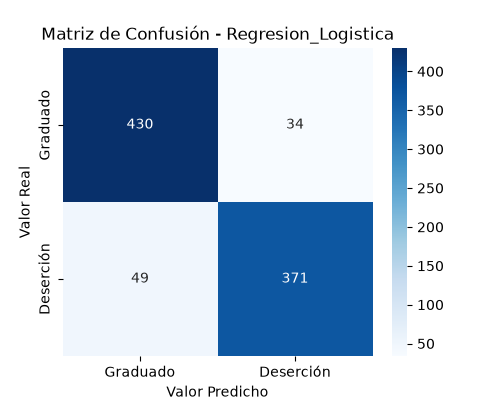
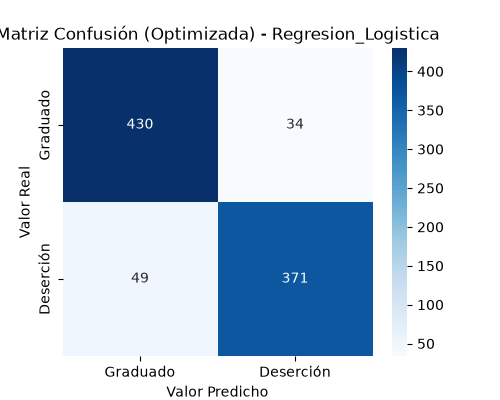
feat(ml): profesionalizar pipeline con GridSearchCV y SelectKBest

Changed region(s): [[0.0, 0.06, 0.87, 0.12]]

diff --git a/notebooks/src/model.py b/notebooks/src/model.py
@@ -2,51 +2,98 @@ import os
 import joblib
 import matplotlib.pyplot as plt
 import seaborn as sns
+from sklearn.pipeline import Pipeline
+from sklearn.preprocessing import StandardScaler
+from sklearn.feature_selection import SelectKBest, f_classif
 from sklearn.linear_model import LogisticRegression
 from sklearn.ensemble import RandomForestClassifier
-from sklearn.tree import DecisionTreeClassifier
-from sklearn.metrics import accuracy_score, confusion_matrix
-from sklearn.model_selection import cross_val_score
+from sklearn.model_selection import GridSearchCV
+from sklearn.metrics import accuracy_score, confusion_matrix, classification_report, roc_auc_score
 from notebooks.src.config import DIRECTORIO_GRAFICOS, DIRECTORIO_MODELOS
 
 def fase_4_entrenamiento_y_experimentos(X_entrenamiento, y_entrenamiento, X_prueba, y_prueba):
-    print('\n=== FASE 4: ENTRENAMIENTO Y EXPERIMENTOS ===')
-    modelos_a_evaluar = {'Regresion_Logistica': LogisticRegression(max_iter=1000, random_state=42), 'Arbol_de_Decision': DecisionTreeClassifier(random_state=42), 'Random_Forest': RandomForestClassifier(n_estimators=100, random_state=42)}
-    resultados_precision = {}
+    print('\n=== FASE 4: ENTRENAMIENTO AVANZADO Y TUNING (GridSearchCV) ===')
+    
+    # Definición de Pipelines base
+    pipe_lr = Pipeline([
+        ('scaler', StandardScaler()),
+        ('selector', SelectKBest(score_func=f_classif)),
+        ('classifier', LogisticRegression(random_state=42, max_iter=2000))
+    ])
+    
+    pipe_rf = Pipeline([
+        ('scaler', StandardScaler()),
+        ('selector', SelectKBest(score_func=f_classif)),
+        ('classifier', RandomForestClassifier(random_state=42))
+    ])
+    
+    # Grillas de Hiperparámetros
+    param_grid_lr = {
+        'selector__k': [10, 15, 'all'],
+        'classifier__C': [0.1, 1.0, 10.0]
+    }
+    
+    param_grid_rf = {
+        'selector__k': [10, 15, 'all'],
+        'classifier__n_estimators': [50, 100],
+        'classifier__max_depth': [None, 10, 20]
+    }
+    
+    grids = {
+        'Regresion_Logistica': GridSearchCV(pipe_lr, param_grid_lr, cv=5, scoring='f1', n_jobs=-1),
+        'Random_Forest': GridSearchCV(pipe_rf, param_grid_rf, cv=5, scoring='f1', n_jobs=-1)
+    }
+    
+    resultados_f1 = {}
     mejor_modelo = None
-    mejor_precision = 0
-    for nombre_modelo, modelo in modelos_a_evaluar.items():
-        print(f'\n  [Experimento] Entrenando modelo: {nombre_modelo}...')
-        puntajes_cv = cross_val_score(modelo, X_entrenamiento, y_entrenamiento, cv=5, scoring='accuracy')
-        print(f'    - Precisión Validación Cruzada: {puntajes_cv.mean():.4f} (+/- {puntajes_cv.std() * 2:.4f})')
-        modelo.fit(X_entrenamiento, y_entrenamiento)
-        predicciones = modelo.predict(X_prueba)
-        precision_prueba = accuracy_score(y_prueba, predicciones)
-        resultados_precision[nombre_modelo] = precision_prueba
-        print(f'    - Precisión en Prueba (Accuracy): {precision_prueba:.4f}')
+    mejor_f1 = 0
+    nombre_mejor_modelo = ""
+    
+    for nombre_modelo, grid in grids.items():
+        print(f'\n  [GridSearchCV] Optimizando hiperparámetros para: {nombre_modelo}...')
+        grid.fit(X_entrenamiento, y_entrenamiento)
+        
+        modelo_optimizado = grid.best_estimator_
+        print(f'    - Mejores parámetros: {grid.best_params_}')
+        
+        predicciones = modelo_optimizado.predict(X_prueba)
+        predicciones_proba = modelo_optimizado.predict_proba(X_prueba)[:, 1]
+        
+        # Calcular múltiples métricas
+        roc_auc = roc_auc_score(y_prueba, predicciones_proba)
+        
+        print(f'    - Reporte de Clasificación en Prueba:\n{classification_report(y_prueba, predicciones)}')
+        print(f'    - ROC-AUC: {roc_auc:.4f}')
+        
+        # Guardaremos el modelo en base a su score del Grid (F1 validacion cruzada)
+        score_cv = grid.best_score_
+        resultados_f1[nombre_modelo] = score_cv
+        
         matriz_conf = confusion_matrix(y_prueba, predicciones)
         plt.figure(figsize=(5, 4))
         sns.heatmap(matriz_conf, annot=True, fmt='d', cmap='Blues', xticklabels=['Graduado', 'Deserción'], yticklabels=['Graduado', 'Deserción'])
-        plt.title(f'Matriz de Confusión - {nombre_modelo}')
+        plt.title(f'Matriz Confusión (Optimizada) - {nombre_modelo}')
         plt.ylabel('Valor Real')
         plt.xlabel('Valor Predicho')
         plt.savefig(os.path.join(DIRECTORIO_GRAFICOS, f'matriz_confusion_{nombre_modelo}.png'))
         plt.close()
-        if precision_prueba > mejor_precision:
-            mejor_precision = precision_prueba
-            mejor_modelo = modelo
-    nombre_mejor_modelo = [k for k, v in resultados_precision.items() if v == mejor_precision][0]
-    return (resultados_precision, mejor_modelo, nombre_mejor_modelo)
+        
+        if score_cv > mejor_f1:
+            mejor_f1 = score_cv
+            mejor_modelo = modelo_optimizado
+            nombre_mejor_modelo = nombre_modelo
+            
+    return (resultados_f1, mejor_modelo, nombre_mejor_modelo)
 
 def fase_5_evaluacion_y_seleccion(resultados, nombre_mejor_modelo):
     print('\n=== FASE 5: EVALUACIÓN Y SELECCIÓN ===')
-    print('  Resumen de Experimentos (Precisión / Accuracy):')
-    for nombre, precision in resultados.items():
-        print(f'    * {nombre}: {precision:.4f}')
-    print(f'\n  >> EL MEJOR MODELO ELEGIDO ES: {nombre_mejor_modelo} con {resultados[nombre_mejor_modelo]:.4f} de precisión.')
+    print('  Resumen de Experimentos (F1-Score en Validación Cruzada):')
+    for nombre, score in resultados.items():
+        print(f'    * {nombre}: {score:.4f}')
+    print(f'\n  >> EL MEJOR MODELO ELEGIDO ES: {nombre_mejor_modelo} con {resultados[nombre_mejor_modelo]:.4f} de F1-Score.')
 
-def fase_6_guardar_salida(mejor_modelo, escalador):
+def fase_6_guardar_salida(mejor_pipeline):
     print('\n=== FASE 6: EXPORTACIÓN DEL MODELO ===')
-    joblib.dump(mejor_modelo, os.path.join(DIRECTORIO_MODELOS, 'modelo_desercion.pkl'))
-    joblib.dump(escalador, os.path.join(DIRECTORIO_MODELOS, 'escalador.pkl'))
-    print("  -> Modelo y escalador guardados exitosamente en la carpeta 'models/'.")
+    # Guardamos todo el pipeline en un solo archivo
+    joblib.dump(mejor_pipeline, os.path.join(DIRECTORIO_MODELOS, 'pipeline_desercion.pkl'))
+    print("  -> Pipeline completo (Escalador + Selector + Clasificador) guardado como 'pipeline_desercion.pkl'.")

diff --git a/app/modules/prediccion/providers/impl/modelo_provider_impl.py b/app/modules/prediccion/providers/impl/modelo_provider_impl.py
@@ -9,20 +9,20 @@ from app.core.exceptions.mensajes_error import MensajesDeError
 class ModeloProviderImpl(IModeloProvider):
 
     def __init__(self):
-        self.ruta_modelo = os.path.join(os.path.dirname(__file__), '../../../../../models/modelo_desercion.pkl')
+        self.ruta_modelo = os.path.join(os.path.dirname(__file__), '../../../../../models/pipeline_desercion.pkl')
 
     def ejecutar_prediccion(self, estudiante: EstudianteDominio) -> ResultadoDominio:
         if not os.path.exists(self.ruta_modelo):
             raise ExcepcionDeNegocio(MensajesDeError.MODELO_NO_ENTRENADO)
         try:
-            modelo = joblib.load(self.ruta_modelo)
+            pipeline = joblib.load(self.ruta_modelo)
             datos_diccionario = {'Marital status': estudiante.estado_civil, 'Application mode': estudiante.modo_aplicacion, 'Application order': estudiante.orden_aplicacion, 'Course': estudiante.curso, 'Daytime/evening attendance\t': estudiante.asistencia_diurna_nocturna, 'Previous qualification': estudiante.calificacion_previa, 'Admission grade': estudiante.nota_admision, 'Displaced': estudiante.desplazado, 'Educational special needs': estudiante.necesidades_educativas_especiales, 'Debtor': estudiante.deudor, 'Tuition fees up to date': estudiante.mensualidades_al_dia, 'Gender': estudiante.genero, 'Scholarship holder': estudiante.becario, 'Age at enrollment': estudiante.edad_al_matricularse, 'Curricular units 1st sem (enrolled)': estudiante.unidades_curriculares_1er_sem_inscritas, 'Curricular units 1st sem (evaluations)': estudiante.unidades_curriculares_1er_sem_evaluaciones, 'Curricular units 1st sem (approved)': estudiante.unidades_curriculares_1er_sem_aprobadas, 'Curricular units 1st sem (grade)': estudiante.unidades_curriculares_1er_sem_nota}
             datos_df = pd.DataFrame([datos_diccionario])
-            prediccion = modelo.predict(datos_df)[0]
+            prediccion = pipeline.predict(datos_df)[0]
             probabilidad_calculada = 0.0
-            if hasattr(modelo, 'predict_proba'):
-                probabilidades = modelo.predict_proba(datos_df)[0]
-                clases = list(modelo.classes_)
+            if hasattr(pipeline, 'predict_proba'):
+                probabilidades = pipeline.predict_proba(datos_df)[0]
+                clases = list(pipeline.classes_)
                 if 1 in clases:
                     indice_dropout = clases.index(1)
                     probabilidad_calculada = probabilidades[indice_dropout]

diff --git a/notebooks/src/preprocessing.py b/notebooks/src/preprocessing.py
@@ -1,6 +1,5 @@
 import pandas as pd
 from sklearn.model_selection import train_test_split
-from sklearn.preprocessing import StandardScaler
 from imblearn.over_sampling import SMOTE
 
 def fase_3_preprocesamiento(datos: pd.DataFrame):
@@ -19,8 +18,4 @@ def fase_3_preprocesamiento(datos: pd.DataFrame):
     caracteristicas_balanceadas, objetivo_balanceado = smote.fit_resample(caracteristicas, objetivo)
     print('  -> Dividiendo datos en Entrenamiento (80%) y Prueba (20%)...')
     X_entrenamiento, X_prueba, y_entrenamiento, y_prueba = train_test_split(caracteristicas_balanceadas, objetivo_balanceado, test_size=0.2, random_state=42)
-    print('  -> Estandarizando variables numéricas (StandardScaler)...')
-    escalador = StandardScaler()
-    X_entrenamiento_escalado = escalador.fit_transform(X_entrenamiento)
-    X_prueba_escalado = escalador.transform(X_prueba)
-    return (X_entrenamiento_escalado, X_prueba_escalado, y_entrenamiento, y_prueba, escalador)
+    return (X_entrenamiento, X_prueba, y_entrenamiento, y_prueba)

diff --git a/notebooks/pipeline.py b/notebooks/pipeline.py
@@ -17,13 +17,13 @@ def ejecutar_pipeline_completo():
     
     fase_2_analisis_exploratorio(datos)
     
-    X_entrenar, X_prueba, y_entrenar, y_prueba, escalador = fase_3_preprocesamiento(datos)
+    X_entrenar, X_prueba, y_entrenar, y_prueba = fase_3_preprocesamiento(datos)
     
-    resultados, mejor_modelo, nombre_mejor = fase_4_entrenamiento_y_experimentos(X_entrenar, y_entrenar, X_prueba, y_prueba)
+    resultados, mejor_pipeline, nombre_mejor = fase_4_entrenamiento_y_experimentos(X_entrenar, y_entrenar, X_prueba, y_prueba)
     
     fase_5_evaluacion_y_seleccion(resultados, nombre_mejor)
     
-    fase_6_guardar_salida(mejor_modelo, escalador)
+    fase_6_guardar_salida(mejor_pipeline)
     
     print("\n¡Pipeline ejecutado al 100% de forma modular!")
 

diff --git a/tests/conftest.py b/tests/conftest.py
@@ -1,6 +1,6 @@
 import pytest
 from app.modules.prediccion.schemas.prediccion_schema import PerfilEstudiante
-from app.modules.prediccion.domain.estudiante_dominio import EstudianteDominio, ResultadoDominio
+from app.modules.prediccion.domain.estudiante_dominio import ResultadoDominio
 from fastapi.testclient import TestClient
 from main import aplicacion
 

diff --git a/tests/unit/modules/prediccion/providers/test_modelo_provider.py b/tests/unit/modules/prediccion/providers/test_modelo_provider.py
@@ -1,6 +1,5 @@
 import pytest
 from unittest.mock import patch, Mock
-import os
 from app.modules.prediccion.providers.impl.modelo_provider_impl import ModeloProviderImpl
 from app.core.exceptions.errores_personalizados import ExcepcionDeNegocio
 from app.core.exceptions.mensajes_error import MensajesDeError

diff --git a/tests/unit/modules/prediccion/providers/test_modelo_provider_borde.py b/tests/unit/modules/prediccion/providers/test_modelo_provider_borde.py
@@ -1,5 +1,4 @@
 from unittest.mock import patch, Mock
-import pytest
 from app.modules.prediccion.providers.impl.modelo_provider_impl import ModeloProviderImpl
 
 @patch("app.modules.prediccion.providers.impl.modelo_provider_impl.joblib.load")
